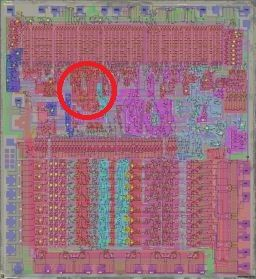
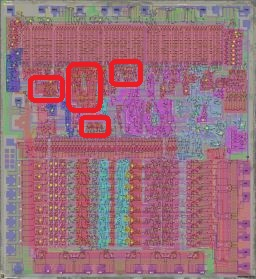
alu_control.md WIP

Changed region(s): [[0.0938, 0.2007, 0.5625, 0.5161]]

diff --git a/BreakingNESWiki/6502/alu_control.md b/BreakingNESWiki/6502/alu_control.md
@@ -2,4 +2,19 @@
 
 ![6502_locator_alu_control](/BreakingNESWiki/imgstore/6502_locator_alu_control.jpg)
 
-<img src="/BreakingNESWiki/imgstore/alu_control.jpg" width="900px">
+
+![alu_setup_ror_tran](/BreakingNESWiki/imgstore/alu_setup_ror_tran.jpg)
+
+![alu_setup_addsb7_tran](/BreakingNESWiki/imgstore/alu_setup_addsb7_tran.jpg)
+
+![alu_setup_bcd_tran](/BreakingNESWiki/imgstore/alu_setup_bcd_tran.jpg)
+
+![alu_setup_acdb_sr_tran](/BreakingNESWiki/imgstore/alu_setup_acdb_sr_tran.jpg)
+
+![alu_setup_acsb_and_tran](/BreakingNESWiki/imgstore/alu_setup_acsb_and_tran.jpg)
+
+![alu_setup_cset_tran](/BreakingNESWiki/imgstore/alu_setup_cset_tran.jpg)
+
+![alu_setup_main_tran](/BreakingNESWiki/imgstore/alu_setup_main_tran.jpg)
+
+![alu_control_commands_tran](/BreakingNESWiki/imgstore/alu_control_commands_tran.jpg)
